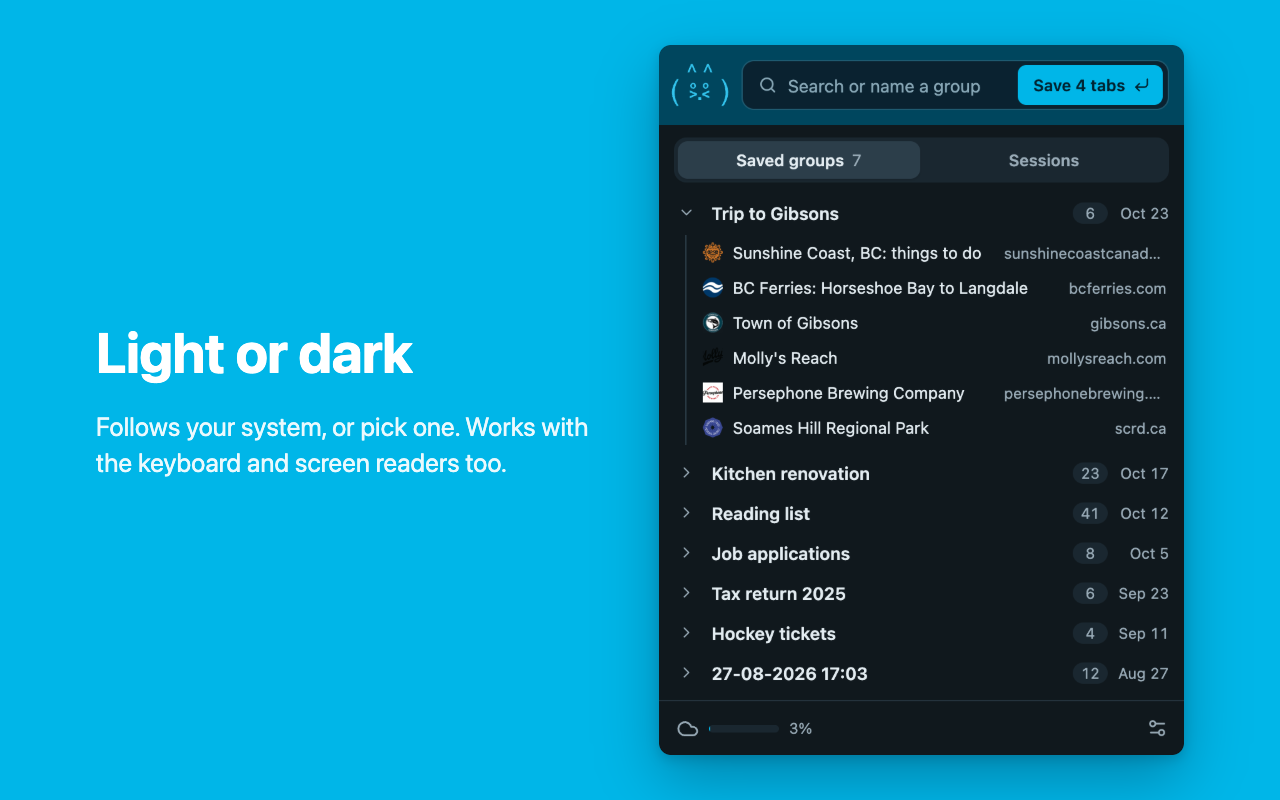
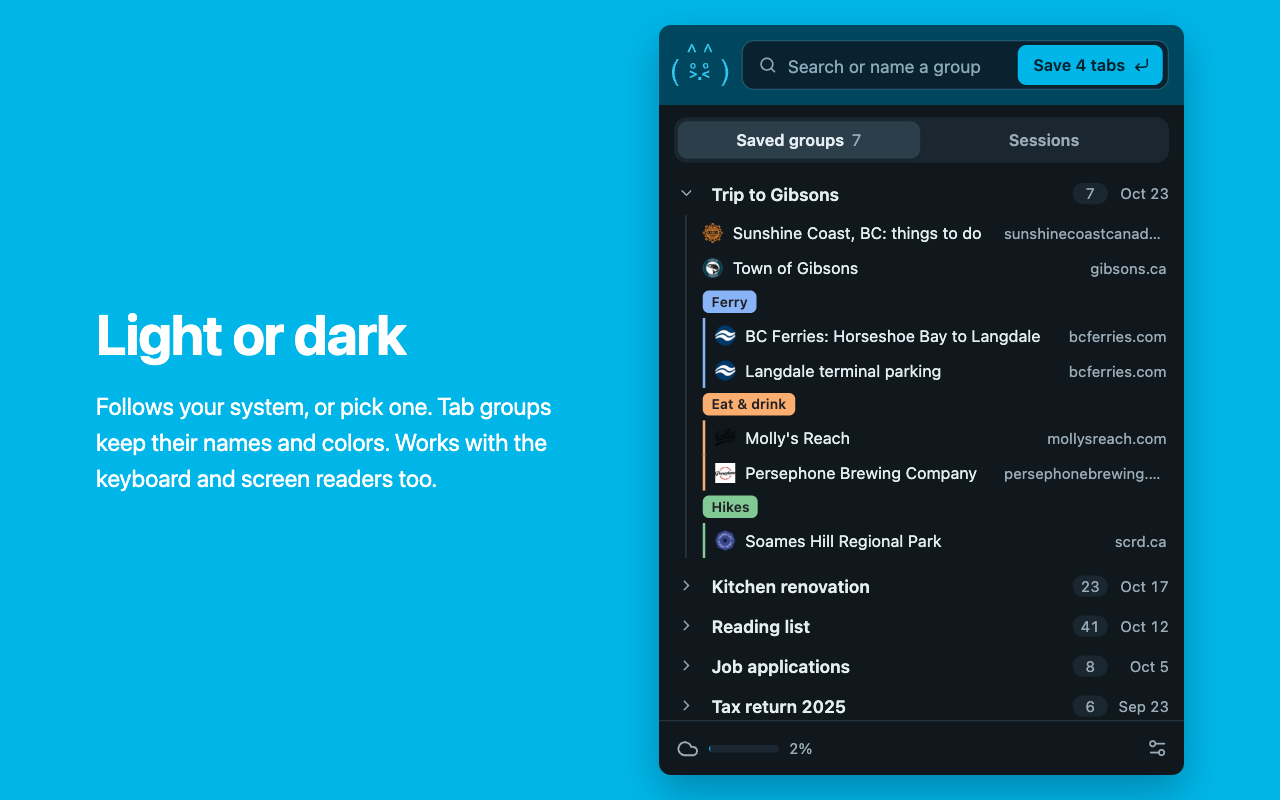
docs: store listings mention the browser's tab groups, new dark screenshot

diff --git a/.work/edge_market/listing.md b/.work/edge_market/listing.md
@@ -34,7 +34,7 @@ Permission justifications:
 
 storage
 ```
-Saved tab groups and settings are kept in chrome.storage.sync, so they reach the user's other computers through browser sync. chrome.storage.local keeps the browser sessions (the last 30), a local copy of every group, groups deleted in the last 30 days (so they can be restored), and the undo copy of a restore from a backup file. chrome.storage.session keeps the ID of the current session. Nothing is sent anywhere else.
+Saved groups and settings are kept in chrome.storage.sync, so they reach the user's other computers through browser sync. chrome.storage.local keeps the browser sessions (the last 30), a local copy of every group, groups deleted in the last 30 days (so they can be restored), and the undo copy of a restore from a backup file. chrome.storage.session keeps the ID of the current session. Nothing is sent anywhere else.
 ```
 
 tabs
@@ -49,7 +49,12 @@ Shows each saved tab's icon in the list, taken from the browser's own icon cache
 
 unlimitedStorage
 ```
-chrome.storage.local holds a full copy of the user's saved tab groups (and groups deleted in the last 30 days), so saving a group never fails when sync storage (100 KB) is full. It also holds the last 30 browser sessions, which with their closed tabs and visited pages can take several MB. The data stays on the user's computer.
+chrome.storage.local holds a full copy of the user's saved groups (and groups deleted in the last 30 days), so saving a group never fails when sync storage (100 KB) is full. It also holds the last 30 browser sessions, which with their closed tabs and visited pages can take several MB. The data stays on the user's computer.
+```
+
+tabGroups (optional: asked only when the user turns on "Remember tab groups" in Settings or chooses "Open as tab group")
+```
+Reads the names, colors and collapsed state of the browser's tab groups, so saved groups and sessions keep them, and creates tab groups with them when a saved group or session is opened. The data is stored with the groups and sessions as described under storage and is not sent anywhere.
 ```
 
 Remote code: No, I am not using remote code.
@@ -87,6 +92,7 @@ To test:
 2. Click the group to see its tabs; "Open" opens them, the group's menu has more actions (replace with open tabs, rename, open in an incognito (InPrivate) window, copy links, delete with Undo).
 3. The "Sessions" tab lists the current and past browser sessions; "Restore" reopens a session's windows.
 4. Settings (the icon at the bottom right of the popup): theme, backup and restore, recently deleted groups, help.
+5. Tab groups (optional): Settings > Saving > "Remember tab groups" asks for the tabGroups permission. Put some tabs in a tab group, save the window, close it, and open the group: the tab group comes back with its name and color. The ⋯ menu's "Open as tab group" opens a saved group as one tab group.
 
 Data: groups are kept in chrome.storage.sync (browser sync) and in chrome.storage.local; sessions only in chrome.storage.local. The extension makes no network requests of its own, except the optional "Load missing icons from sites" (Settings > General, off until the user allows it), which loads /favicon.ico from the saved sites. Source code: https://github.com/onikienko/TabHamster
 ```
